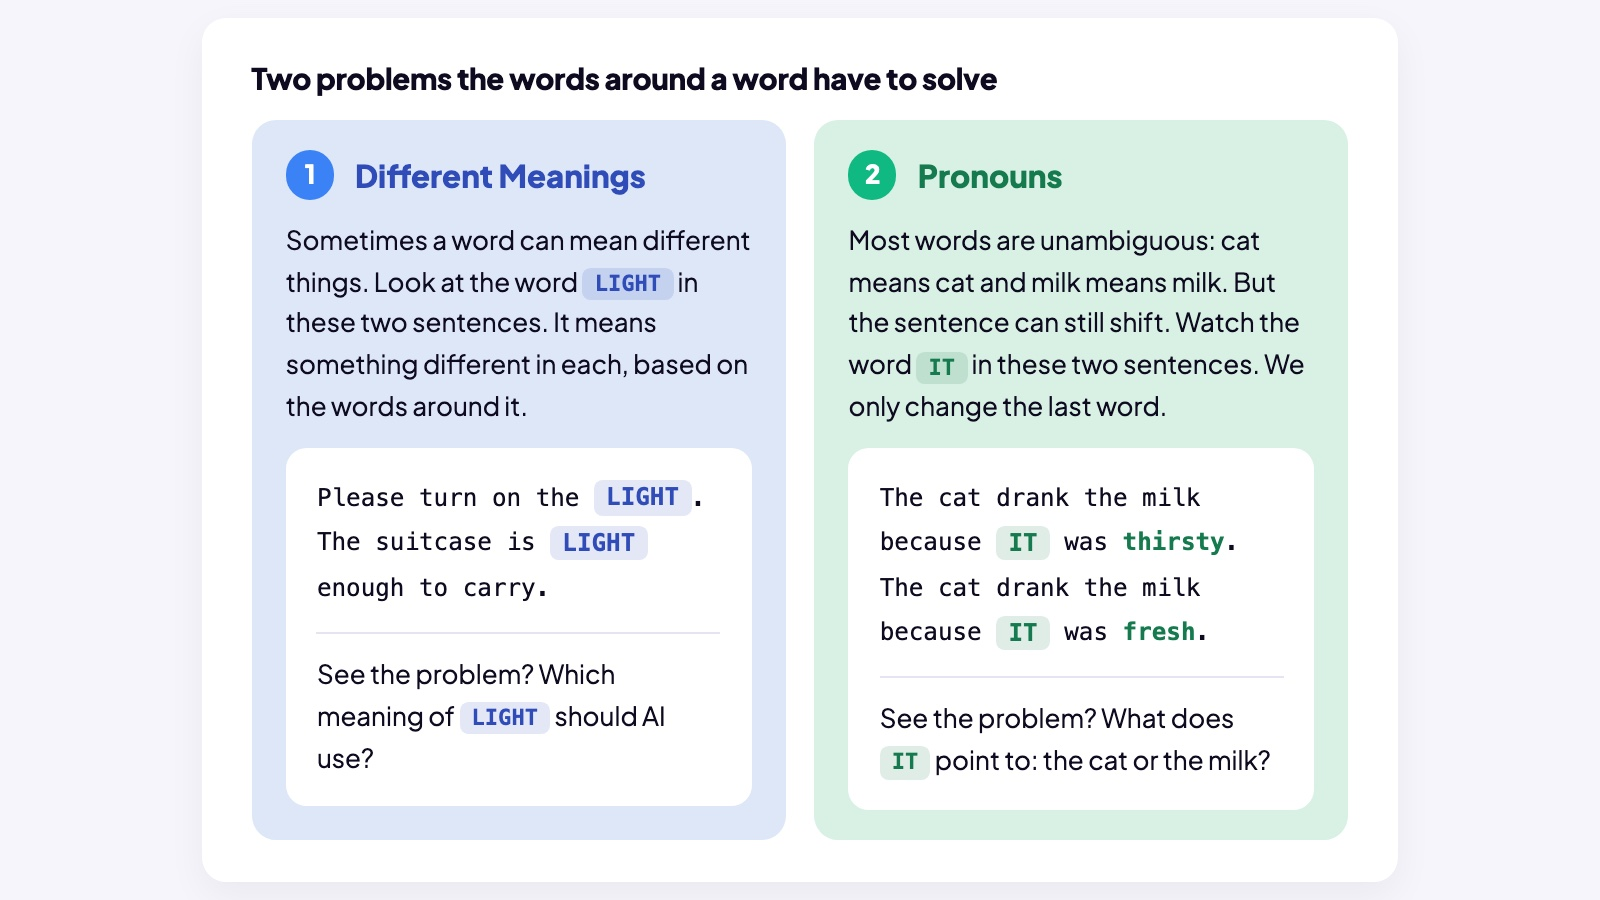
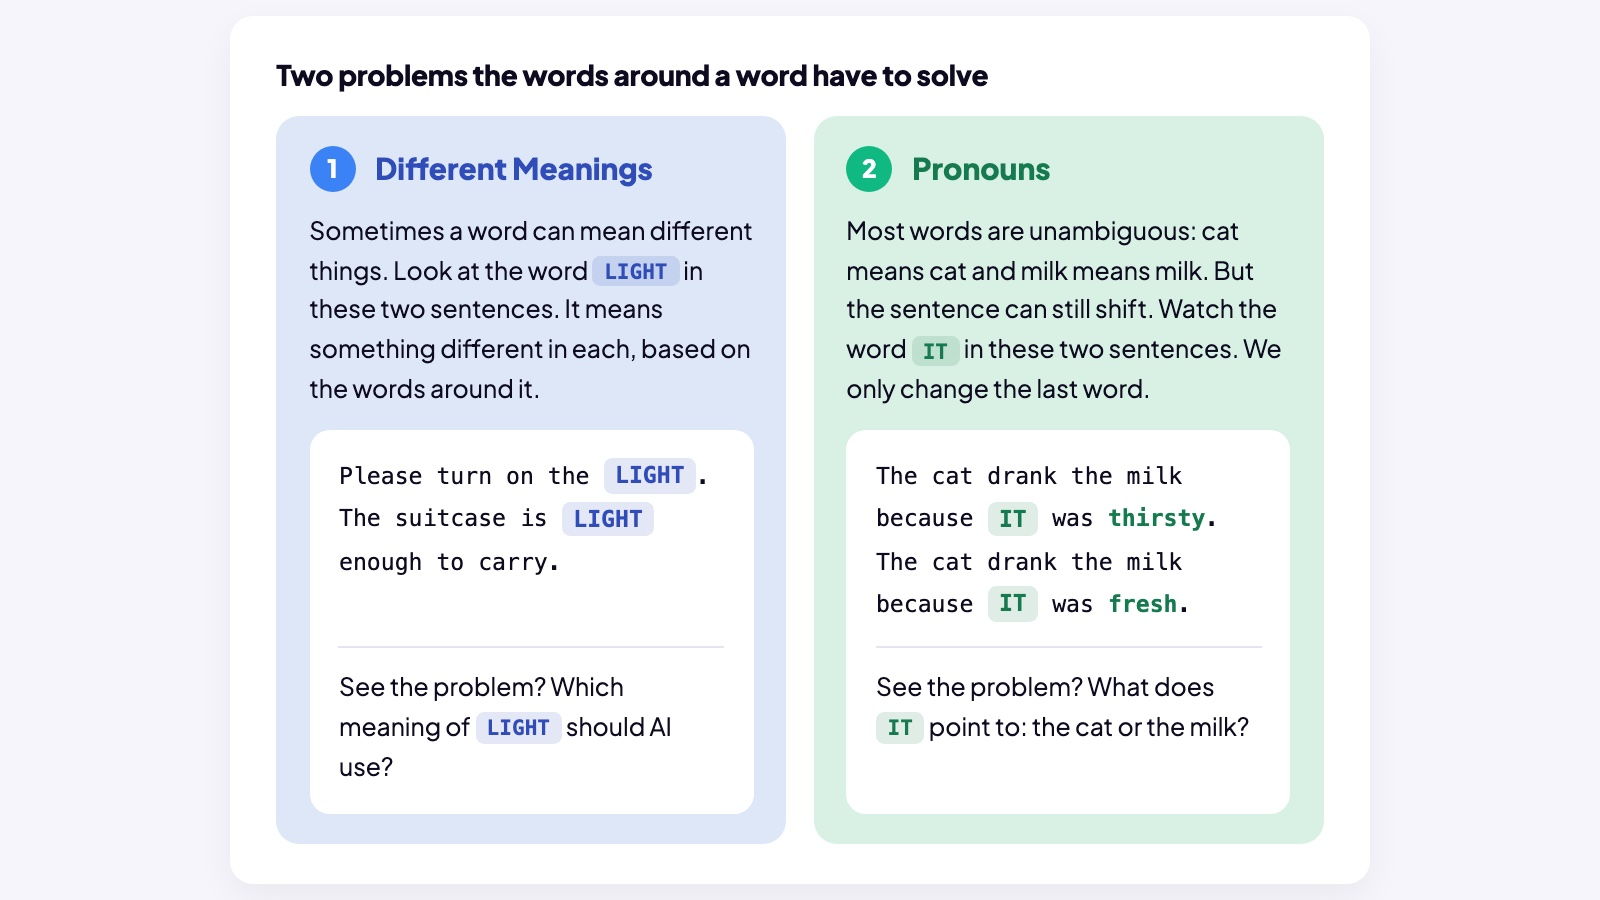
Transformer lesson: subgrid-align the problems/answers panels; recapture boards
White cards start on the same row and their dividers share a track line,
matching the house compare-block pattern.

Changed region(s): [[0.1562, 0.0622, 0.8438, 0.9333], [0.5312, 0.9333, 0.8125, 0.9644], [0.1875, 0.9333, 0.4688, 0.9644]]

diff --git a/index.html b/index.html
@@ -3603,34 +3603,34 @@ function HowAIReadsSection(props) {
       "Here are two nuances in language that break this idea. In both, the word’s meaning isn’t clear until you read the words around it."
     ),
 
-    E("div", { style: { display: "grid", gridTemplateColumns: "repeat(auto-fit, minmax(300px, 1fr))", gap: 16, marginBottom: 28 } },
-      E("div", { style: { background: "#dde7f7", borderRadius: 14, padding: "18px 20px" } },
-        E("div", { style: { display: "flex", alignItems: "center", gap: 12, marginBottom: 12 } },
+    E("div", { style: { display: "grid", gridTemplateColumns: "1fr 1fr", gridTemplateRows: "auto auto auto auto", columnGap: 16, rowGap: 12, marginBottom: 28 } },
+      E("div", { style: { background: "#dde7f7", borderRadius: 14, padding: "18px 20px", display: "grid", gridTemplateRows: "subgrid", gridRow: "1 / span 4" } },
+        E("div", { style: { display: "flex", alignItems: "center", gap: 12 } },
           E("div", { style: { width: 28, height: 28, borderRadius: "50%", background: "#3b82f6", color: "#fff", display: "flex", alignItems: "center", justifyContent: "center", fontSize: 15, fontWeight: 800, flexShrink: 0 } }, "1"),
           E("div", { style: { fontSize: 18, fontWeight: 800, color: "#2f4cb8" } }, "Different Meanings")),
-        E("div", { style: { fontSize: BOX_TEXT, color: "var(--ink)", lineHeight: 1.6, marginBottom: 12 } },
+        E("div", { style: { fontSize: BOX_TEXT, color: "var(--ink)", lineHeight: 1.6 } },
           "Sometimes a word can mean different things. Look at the word ", E("strong", { style: { fontFamily: "var(--mono)", fontSize: "0.85em", color: "#2f4cb8", fontWeight: 800, background: "#2f4cb822", padding: "2px 7px", borderRadius: 5 } }, "LIGHT"), " in these two sentences. It means something different in each, based on the words around it."),
-        E("div", { style: { background: "#fff", borderRadius: 12, padding: "16px 18px" } },
-          E("div", { style: { marginBottom: 12 } },
+        E("div", { style: { background: "#fff", borderRadius: 12, padding: "16px 18px", display: "grid", gridTemplateRows: "subgrid", gridRow: "3 / span 2" } },
+          E("div", null,
             E("div", { style: { fontFamily: "var(--mono)", fontSize: 14, color: "var(--ink)", lineHeight: 1.85 } },
               "Please turn on the ", E("strong", { style: { color: "#2f4cb8", fontWeight: 800, background: "#2f4cb822", padding: "2px 7px", borderRadius: 5 } }, "LIGHT"), "."),
             E("div", { style: { fontFamily: "var(--mono)", fontSize: 14, color: "var(--ink)", lineHeight: 1.85 } },
               "The suitcase is ", E("strong", { style: { color: "#2f4cb8", fontWeight: 800, background: "#2f4cb822", padding: "2px 7px", borderRadius: 5 } }, "LIGHT"), " enough to carry.")),
-          E("div", { style: { fontSize: BOX_TEXT, color: "var(--ink)", lineHeight: 1.6, borderTop: "1px solid var(--rule)", paddingTop: 12 } },
+          E("div", { style: { fontSize: BOX_TEXT, color: "var(--ink)", lineHeight: 1.6, borderTop: "1px solid var(--rule)", paddingTop: 12, alignSelf: "start" } },
             "See the problem? Which meaning of ", E("strong", { style: { fontFamily: "var(--mono)", fontSize: "0.85em", color: "#2f4cb8", fontWeight: 800, background: "#2f4cb822", padding: "2px 7px", borderRadius: 5 } }, "LIGHT"), " should AI use?"))),
-      E("div", { style: { background: "#d9f0e4", borderRadius: 14, padding: "18px 20px" } },
-        E("div", { style: { display: "flex", alignItems: "center", gap: 12, marginBottom: 12 } },
+      E("div", { style: { background: "#d9f0e4", borderRadius: 14, padding: "18px 20px", display: "grid", gridTemplateRows: "subgrid", gridRow: "1 / span 4" } },
+        E("div", { style: { display: "flex", alignItems: "center", gap: 12 } },
           E("div", { style: { width: 28, height: 28, borderRadius: "50%", background: "#10b981", color: "#fff", display: "flex", alignItems: "center", justifyContent: "center", fontSize: 15, fontWeight: 800, flexShrink: 0 } }, "2"),
           E("div", { style: { fontSize: 18, fontWeight: 800, color: "#157a4e" } }, "Pronouns")),
-        E("div", { style: { fontSize: BOX_TEXT, color: "var(--ink)", lineHeight: 1.6, marginBottom: 12 } },
+        E("div", { style: { fontSize: BOX_TEXT, color: "var(--ink)", lineHeight: 1.6 } },
           "Most words are unambiguous: cat means cat and milk means milk. But the sentence can still shift. Watch the word ", E("strong", { style: { fontFamily: "var(--mono)", fontSize: "0.85em", color: "#157a4e", fontWeight: 800, background: "#157a4e22", padding: "2px 7px", borderRadius: 5 } }, "IT"), " in these two sentences. We only change the last word."),
-        E("div", { style: { background: "#fff", borderRadius: 12, padding: "16px 18px" } },
-          E("div", { style: { marginBottom: 12 } },
+        E("div", { style: { background: "#fff", borderRadius: 12, padding: "16px 18px", display: "grid", gridTemplateRows: "subgrid", gridRow: "3 / span 2" } },
+          E("div", null,
             E("div", { style: { fontFamily: "var(--mono)", fontSize: 14, color: "var(--ink)", lineHeight: 1.85 } },
               "The cat drank the milk because ", E("strong", { style: { color: "#157a4e", fontWeight: 800, background: "#157a4e22", padding: "2px 7px", borderRadius: 5 } }, "IT"), " was ", E("strong", { style: { color: "#157a4e", fontWeight: 800 } }, "thirsty"), "."),
             E("div", { style: { fontFamily: "var(--mono)", fontSize: 14, color: "var(--ink)", lineHeight: 1.85 } },
               "The cat drank the milk because ", E("strong", { style: { color: "#157a4e", fontWeight: 800, background: "#157a4e22", padding: "2px 7px", borderRadius: 5 } }, "IT"), " was ", E("strong", { style: { color: "#157a4e", fontWeight: 800 } }, "fresh"), ".")),
-          E("div", { style: { fontSize: BOX_TEXT, color: "var(--ink)", lineHeight: 1.6, borderTop: "1px solid var(--rule)", paddingTop: 12 } },
+          E("div", { style: { fontSize: BOX_TEXT, color: "var(--ink)", lineHeight: 1.6, borderTop: "1px solid var(--rule)", paddingTop: 12, alignSelf: "start" } },
             "See the problem? What does ", E("strong", { style: { fontFamily: "var(--mono)", fontSize: "0.85em", color: "#157a4e", fontWeight: 800, background: "#157a4e22", padding: "2px 7px", borderRadius: 5 } }, "IT"), " point to: the cat or the milk?")))),
 
     E(SectionKicker, null, "WHY THIS WAS HARD FOR AI"),
@@ -3846,31 +3846,31 @@ function HowAIReadsSection(props) {
     ),
 
     E("div", { style: { background: "var(--primaryFaint)", borderRadius: 22, padding: 20, marginBottom: 28 } },
-      E("div", { style: { display: "grid", gridTemplateColumns: "repeat(auto-fit, minmax(300px, 1fr))", gap: 14 } },
-        E("div", { style: { background: "#dde7f7", borderRadius: 14, padding: "18px 20px" } },
-          E("div", { style: { display: "flex", alignItems: "center", gap: 12, marginBottom: 12 } },
+      E("div", { style: { display: "grid", gridTemplateColumns: "1fr 1fr", gridTemplateRows: "auto auto auto", columnGap: 14, rowGap: 12 } },
+        E("div", { style: { background: "#dde7f7", borderRadius: 14, padding: "18px 20px", display: "grid", gridTemplateRows: "subgrid", gridRow: "1 / span 3" } },
+          E("div", { style: { display: "flex", alignItems: "center", gap: 12 } },
             E("div", { style: { width: 28, height: 28, borderRadius: "50%", background: "#3b82f6", color: "#fff", display: "flex", alignItems: "center", justifyContent: "center", fontSize: 15, fontWeight: 800, flexShrink: 0 } }, "1"),
             E("div", { style: { fontSize: 18, fontWeight: 800, color: "#2f4cb8" } }, "Different Meanings")),
-          E("div", { style: { background: "#fff", borderRadius: 12, padding: "16px 18px" } },
-            E("div", { style: { marginBottom: 12 } },
+          E("div", { style: { background: "#fff", borderRadius: 12, padding: "16px 18px", display: "grid", gridTemplateRows: "subgrid", gridRow: "2 / span 2" } },
+            E("div", null,
               E("div", { style: { fontFamily: "var(--mono)", fontSize: 14, color: "var(--ink)", lineHeight: 1.85 } },
                 "Please turn on the ", E("strong", { style: { color: "#2f4cb8", fontWeight: 800, background: "#2f4cb822", padding: "2px 7px", borderRadius: 5 } }, "LIGHT"), "."),
               E("div", { style: { fontFamily: "var(--mono)", fontSize: 14, color: "var(--ink)", lineHeight: 1.85 } },
                 "The suitcase is ", E("strong", { style: { color: "#2f4cb8", fontWeight: 800, background: "#2f4cb822", padding: "2px 7px", borderRadius: 5 } }, "LIGHT"), " enough to carry.")),
-            E("div", { style: { fontSize: BOX_TEXT, color: "var(--ink)", lineHeight: 1.6, borderTop: "1px solid var(--rule)", paddingTop: 12 } },
+            E("div", { style: { fontSize: BOX_TEXT, color: "var(--ink)", lineHeight: 1.6, borderTop: "1px solid var(--rule)", paddingTop: 12, alignSelf: "start" } },
               E("div", { style: { marginBottom: 8 } }, E("strong", { style: { color: "var(--primary)", fontWeight: 800 } }, "Attention: "), E("strong", { style: { fontFamily: "var(--mono)", fontSize: "0.85em", color: "#2f4cb8", fontWeight: 800, background: "#2f4cb822", padding: "2px 7px", borderRadius: 5 } }, "LIGHT"), " links to “turn on” in the first sentence, to “carry” in the second."),
               E("div", null, E("strong", { style: { color: "#d97706", fontWeight: 800 } }, "Transformation: "), "It sets ", E("strong", { style: { fontFamily: "var(--mono)", fontSize: "0.85em", color: "#2f4cb8", fontWeight: 800, background: "#2f4cb822", padding: "2px 7px", borderRadius: 5 } }, "LIGHT"), "’s meaning: brightness in one, not-heavy in the other.")))),
-        E("div", { style: { background: "#d9f0e4", borderRadius: 14, padding: "18px 20px" } },
-          E("div", { style: { display: "flex", alignItems: "center", gap: 12, marginBottom: 12 } },
+        E("div", { style: { background: "#d9f0e4", borderRadius: 14, padding: "18px 20px", display: "grid", gridTemplateRows: "subgrid", gridRow: "1 / span 3" } },
+          E("div", { style: { display: "flex", alignItems: "center", gap: 12 } },
             E("div", { style: { width: 28, height: 28, borderRadius: "50%", background: "#10b981", color: "#fff", display: "flex", alignItems: "center", justifyContent: "center", fontSize: 15, fontWeight: 800, flexShrink: 0 } }, "2"),
             E("div", { style: { fontSize: 18, fontWeight: 800, color: "#157a4e" } }, "Pronouns")),
-          E("div", { style: { background: "#fff", borderRadius: 12, padding: "16px 18px" } },
-            E("div", { style: { marginBottom: 12 } },
+          E("div", { style: { background: "#fff", borderRadius: 12, padding: "16px 18px", display: "grid", gridTemplateRows: "subgrid", gridRow: "2 / span 2" } },
+            E("div", null,
               E("div", { style: { fontFamily: "var(--mono)", fontSize: 14, color: "var(--ink)", lineHeight: 1.85 } },
                 "The cat drank the milk because ", E("strong", { style: { color: "#157a4e", fontWeight: 800, background: "#157a4e22", padding: "2px 7px", borderRadius: 5 } }, "IT"), " was ", E("strong", { style: { color: "#157a4e", fontWeight: 800 } }, "thirsty"), "."),
               E("div", { style: { fontFamily: "var(--mono)", fontSize: 14, color: "var(--ink)", lineHeight: 1.85 } },
                 "The cat drank the milk because ", E("strong", { style: { color: "#157a4e", fontWeight: 800, background: "#157a4e22", padding: "2px 7px", borderRadius: 5 } }, "IT"), " was ", E("strong", { style: { color: "#157a4e", fontWeight: 800 } }, "fresh"), ".")),
-            E("div", { style: { fontSize: BOX_TEXT, color: "var(--ink)", lineHeight: 1.6, borderTop: "1px solid var(--rule)", paddingTop: 12 } },
+            E("div", { style: { fontSize: BOX_TEXT, color: "var(--ink)", lineHeight: 1.6, borderTop: "1px solid var(--rule)", paddingTop: 12, alignSelf: "start" } },
               E("div", { style: { marginBottom: 8 } }, E("strong", { style: { color: "var(--primary)", fontWeight: 800 } }, "Attention: "), "“Thirsty” links ", E("strong", { style: { fontFamily: "var(--mono)", fontSize: "0.85em", color: "#157a4e", fontWeight: 800, background: "#157a4e22", padding: "2px 7px", borderRadius: 5 } }, "IT"), " to the cat; “fresh” links ", E("strong", { style: { fontFamily: "var(--mono)", fontSize: "0.85em", color: "#157a4e", fontWeight: 800, background: "#157a4e22", padding: "2px 7px", borderRadius: 5 } }, "IT"), " to the milk."),
               E("div", null, E("strong", { style: { color: "#d97706", fontWeight: 800 } }, "Transformation: "), "It sets ", E("strong", { style: { fontFamily: "var(--mono)", fontSize: "0.85em", color: "#157a4e", fontWeight: 800, background: "#157a4e22", padding: "2px 7px", borderRadius: 5 } }, "IT"), "’s meaning: the cat in one sentence, the milk in the other.")))))),
 